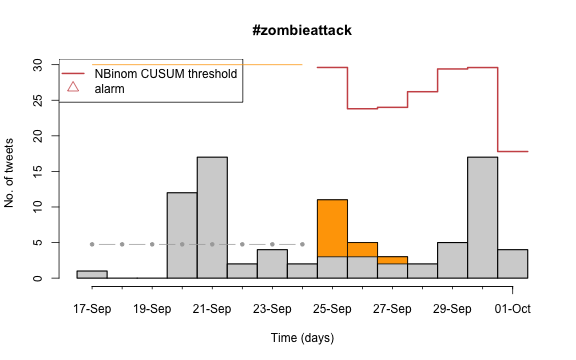
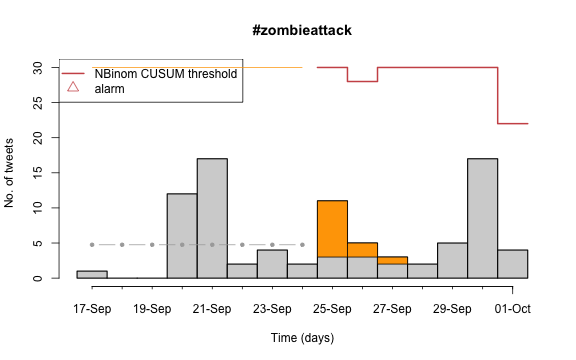
changed back to glr detector

diff --git a/_posts/2016-09-25-sootb.md b/_posts/2016-09-25-sootb.md
@@ -184,37 +184,36 @@ I will continuously update the graphs in this post to see how our efforts are re
 <p>
 <p>
 
-### Update at 2016-10-02 12:05:06
+### Update at 2016-10-02 16:58:14
 
 Below we show how the `#zombieattack` series developed after the post was made public:
 
 ![](http://staff.math.su.se/hoehle/blog/figure/source/2016-09-25-sootb/ZOMBIEATTACK_UPDATED-1.png)
 
-The orange part of the bars indicates the fake outbreak tweet as well as its retweets. It is obvious that despite the increased activity due to the fake outbreak tweets, no alarm is generated. In parts this is explained by the high activity during 20-21 Sep (a previous outbreak?), which inflates the expected number of baseline counts. 
+The orange part of the bars indicates the fake outbreak tweet (1) as well as its retweets (10). It is obvious that despite the increased activity due to the fake outbreak tweets, no alarm was generated, because of the fake outbreak tweets. In parts this is explained by the high activity during 20-21 Sep (a previous outbreak?), which inflates the expected number of baseline counts. Since the EARS algorithm sequentially estimates the variance of the baseline counts, the peak on 20-21 Sep inflates the mean and variance and thus results in a high upperbound as long as it enters the baseline. Despite some extra activity 25-27 Sep due to the fake outbreak tweets, none of the days are above this bound. However, once the 20-21 Sep peak is out of the previous 7 days baseline, the alarm threshold decreases noticeably. We thus get an alarm for the peak on 30 September, even though it's not higher than the previous peak on 20-21 Sep and it appears to be caused by other phenomena not related to our fake outbreak. A more careful analysis of the tweets reveals that they are caused by a [charity fun run](http://charityfunrun2016.tumblr.com/post/149930159797/charity-fun-run-2016) near Kuala Lumpur with a [zombie attack theme](https://www.instagram.com/p/BK-_l8oDD38/)!
 
-Altogether, the "failed"" test proves several points:
+<p>
+<blockquote class="twitter-tweet" data-lang="en"><p lang="en" dir="ltr">SPAM FAM 😋 <a href="https://twitter.com/hashtag/zombieattack?src=hash">#zombieattack</a> <a href="https://twitter.com/hashtag/charityfunrun2016?src=hash">#charityfunrun2016</a> <a href="https://t.co/YJW8Mjpd0L">pic.twitter.com/YJW8Mjpd0L</a></p>&mdash; PAAN (\@noorfarhan_) <a href="https://twitter.com/noorfarhan_/status/781887252519460864">September 30, 2016</a></blockquote>
+<script async src="//platform.twitter.com/widgets.js" charset="utf-8"></script>
+<p>
 
-* its hard to distinguish between previous outbreaks and irregular tweeting behaviour
-* robust estimation of the baseline parameters might be needed
-* is twitter monitoring really sensitive enough to detect weak signals early enough?
-
-The last point could indeed induce sleepless nights...
-
-From a statistical point, the EARS algorithm sequentially estimates the variance of the baseline counts. As a consequence, the peak on 20-21 Sep  inflates the variance, which results in a high upperbound. Despite some extra activity 25-27 Sep, none of the days are above this bound. Furthermore, the baseline consists only of the previous 7 days. Hence, once the 20-21 Sep peak is out of the baseline, the alarm threshold decreases noticeably. We thus get an alarm for the peak on 30 September, even though it's not higher than the previous peak on 20-21 Sep.
-
-For further comparison, we also use a negative binomial CUSUM, which keeps the baseline stedy and also allows the detection of sustained increases.
+For further comparison, we also use a negative binomial CUSUM, which keeps the baseline steady, but allows the detection of sustained increases.
 
 
 
 ![](http://staff.math.su.se/hoehle/blog/figure/source/2016-09-25-sootb/ZOMBIEUPDATE-NBINOM-CUSUM-PLOT-1.png)
 
-The gray line shows the estimated mean from the eight base-line counts, the orange line shows the corresponding upper 99% quantile of this estimated  distribution. The red line shows the alarm limit of a CUSUM method where the potential shift in the mean is estimated by maximum likelihood at each monitoring instance. The threshold is tuned such that it initially roughly coincides with the 99% quantile of the estimated distribution. Here, no signal is detected. Of course this depends on the quantile used for the detection and the 20-21 September peak being included fully in the baseline. Still, according to this metric it looks kind of safe out there! 
+The gray line shows the estimated mean from the eight base-line counts, the orange line shows the corresponding upper 99% quantile of this estimated  distribution. The red line shows the alarm limit of a CUSUM method where the potential shift in the mean is estimated by maximum likelihood at each monitoring instance. The threshold is tuned such that it initially roughly coincides with the 99% quantile of the estimated distribution. Here, no signal is detected. Of course this depends on the quantile used for the detection and the 20-21 September peak being included fully in the baseline. Still, according to this metric occasional fake zombie runs are part of the routine.
+
+Altogether, the "failed"" test proves several points:
+
+* its hard to distinguish between previous outbreaks and irregular tweeting behaviour
+* robust estimation of the baseline parameters might be needed
+* the results are sensitive to the choice of which values to include in the baseline and the underlying probability model
+* is twitter monitoring really sensitive enough to detect weak signals early enough?
 
 #### The take home message of this update
 To enhance statistical competence and preserve sleep: stick with the negative binomial CUSUM!
-
-
-
 
 
 # References
